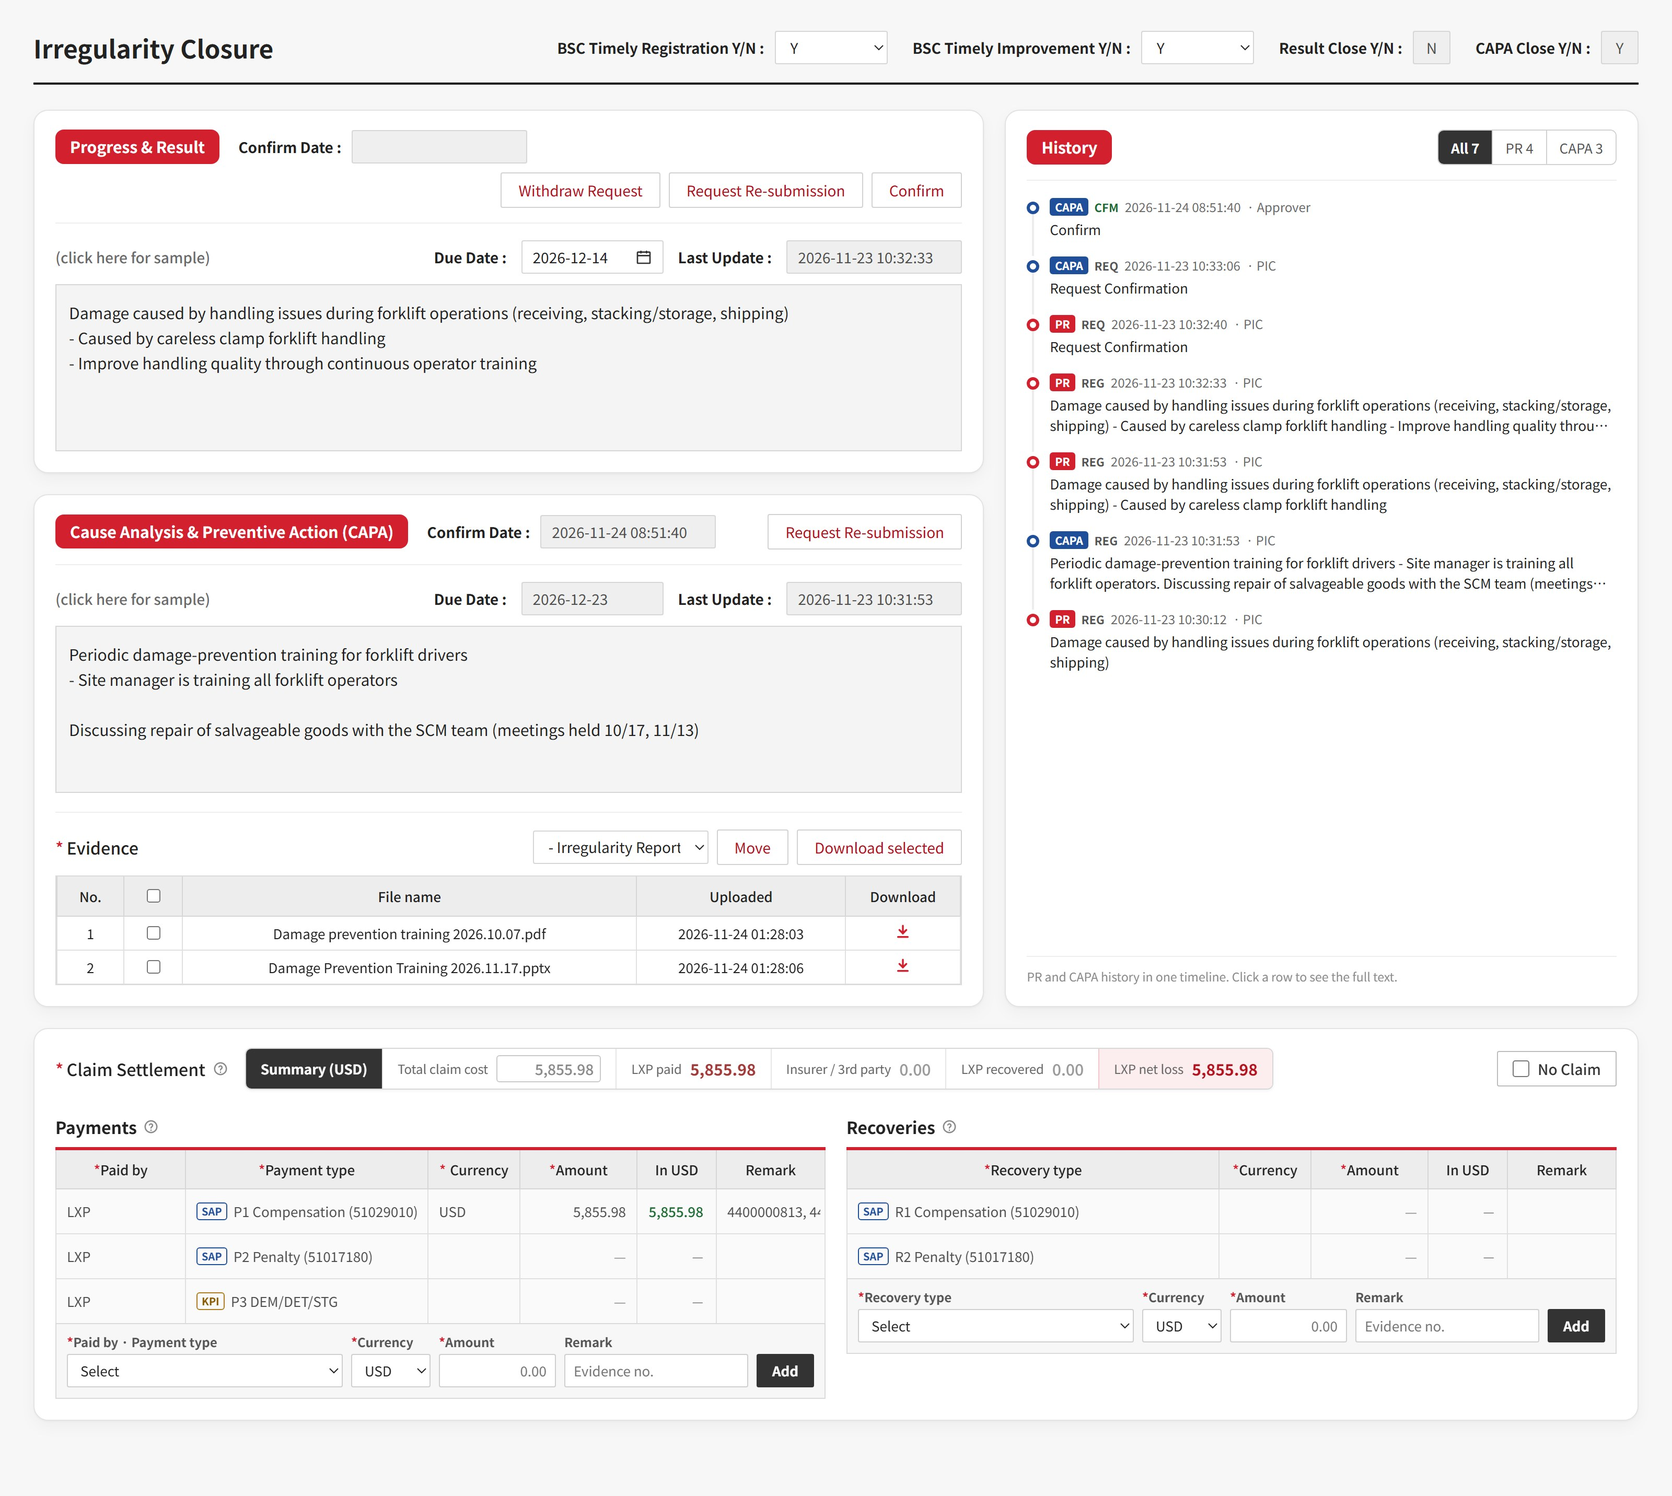
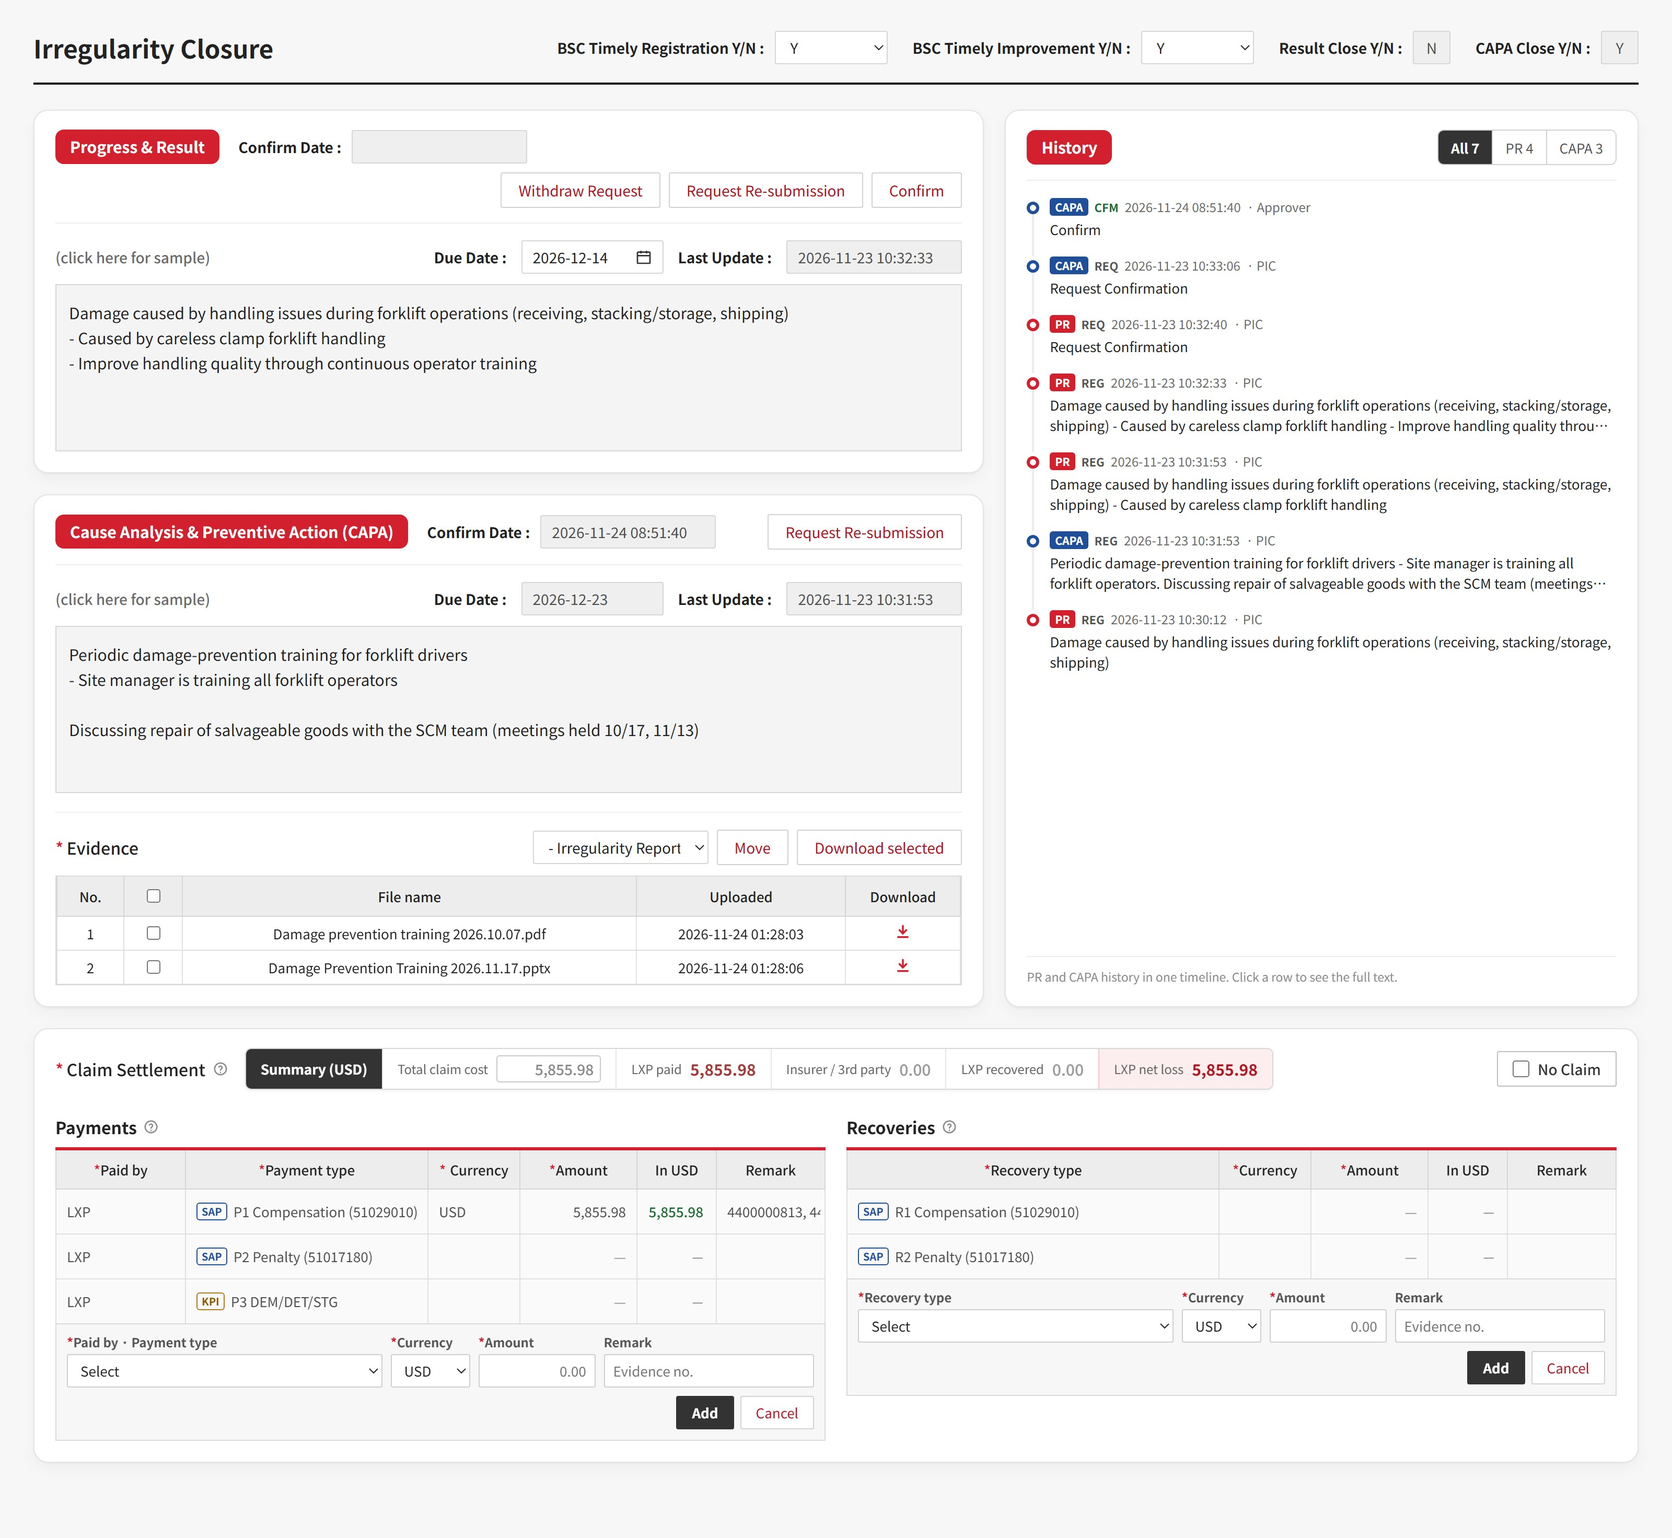
QMS sidebar mockup: CS buttons on their own row, Cancel always shown

diff --git a/share/qms-claim-closure-sidebar.html b/share/qms-claim-closure-sidebar.html
@@ -127,8 +127,9 @@ a{color:#B3121F}a:hover{color:#7E0C16}
 .csw .grid .rocell{border:0;background:none;height:28px;padding:0 6px}
 .cform{margin-top:-1px;background:#F7F7F7;border:1px solid #DADADA;padding:8px 10px 10px}
 .cf-g{display:grid;gap:6px 8px;align-items:end}
-.cf-g.pay{grid-template-columns:minmax(0,1.5fr) 76px 112px minmax(0,1fr) auto}
-.cf-g.rec{grid-template-columns:minmax(0,1.5fr) 76px 112px minmax(0,1fr) auto}
+.cf-g.pay{grid-template-columns:minmax(0,1.5fr) 76px 112px minmax(0,1fr)}
+.cf-g.rec{grid-template-columns:minmax(0,1.5fr) 76px 112px minmax(0,1fr)}
+.cf-foot{display:flex;flex-wrap:wrap;align-items:center;gap:6px 10px;margin-top:8px}.cf-foot .cf-b{margin-left:auto}
 .csw table[data-k="pay"] col:nth-child(4),.csw table[data-k="rec"] col:nth-child(3){width:112px !important}
 .cform.editing{background:#FDF1F2;border-color:#EBB5BB}
 .grid tr.ur.flash td{animation:urflash 1.4s ease-out}@keyframes urflash{from{background:#FFF0B3}to{background:#fff}}
@@ -141,20 +142,20 @@ a{color:#B3121F}a:hover{color:#7E0C16}
 .cf-b .btn{height:32px;padding:0 14px;font-size:13px}
 .cf-b .btn[hidden]{display:none}
 .btn.dark{background:#333;border-color:#333;color:#fff;font-weight:700}
-.cf-err{margin:6px 0 0;font-size:12px;color:#B3121F}
+.cf-err{margin:0;font-size:12px;color:#B3121F}
 .uc{height:28px;display:flex;align-items:center;padding:0 6px;font-size:13px;overflow:hidden;white-space:nowrap;text-overflow:ellipsis}
 .uc.num{justify-content:flex-end;font-variant-numeric:tabular-nums}
 .grid tr.ur{cursor:pointer;user-select:none}.grid tr.ur:hover td{background:#FFF7F7}
 .grid tr.ur.sel td{background:#FDECEE}.grid tr.ur.sel td:first-child{box-shadow:inset 3px 0 0 #D3202F}
 .grid tr.ur:focus-visible{outline:2px solid #1F4E9A;outline-offset:-2px}
-@media (max-width:640px){.cf-g.pay,.cf-g.rec{grid-template-columns:minmax(0,1fr) minmax(0,1fr)}.cf-b{grid-column:1 / -1;justify-content:flex-end}}
+@media (max-width:640px){.cf-g.pay,.cf-g.rec{grid-template-columns:minmax(0,1fr) minmax(0,1fr)}}
 @media (max-width:1100px){.sbl,.flow.r64 .sbl{grid-template-columns:minmax(0,1fr)}.tl{flex:none;height:auto;min-height:0;max-height:420px}}
 
 </style>
 </head>
 <body>
 <div class="lab-bar"><b>QMS 사고 비용 정산 설계안</b><span>배치 검토용 목업 · 이력 필터만 동작</span><a href="/share/qms-claim">데이터 설계</a><a href="/share/qms-claim-screens">입력 화면 시안</a><a href="/share/qms-claim-closure">Closure 화면 개선안</a><a href="/share/qms-claim-closure-layout">좌우 배치안</a><a href="/share/qms-claim-closure-sidebar" aria-current="page">이력 사이드바안</a><a href="/share/qms-claim-closure-options">배치 제안</a><a href="#en" lang="en">English</a></div>
-<div class="part"><h2 class="big">이력 사이드바안 — 배치 제안 C</h2><p><b>사이드바 레이아웃</b>: 왼쪽 본문은 PR → CAPA → 이행 증빙, 오른쪽 사이드바는 PR · CAPA 이력을 시간순으로 모은 통합 이력 (PR / CAPA 필터). 구역마다 둥근 상자로 나누고, 본문 : 이력 폭은 7 : 3 (6 : 4로 바꿔 볼 수 있음). 이력 상자는 본문 높이에 맞춰 늘어나고 넘치면 안에서 스크롤. 입력 칸과 이력이 나란히 있지 않으니 높이를 맞출 필요가 없고, 이행 증빙이 늘어도 구조가 깨지지 않습니다. <b>Claim Settlement는 전체 폭</b>으로 빼서 지불·회수 표를 한 줄에 놓고, 맨 아래(기본)와 맨 위 중 골라 볼 수 있습니다. <b>지불·회수 표는 조회 전용</b>(USD 환산은 표에서 자동 계산)이고, 표 바로 아래 한 줄 입력칸에 입력하고 줄 끝의 추가(또는 Enter)로 넣습니다. 입력한 행을 더블클릭하면 입력칸에 불러오고, 입력칸이 분홍으로 바뀌며 버튼이 수정·삭제·취소로 바뀝니다 (취소 또는 Esc → 신규). 취소는 지울 내용이 있을 때만 나옵니다. 아래 비고는 없애고 규칙은 ? 툴팁과 입력칸 안내로 옮겼습니다. 지불방법은 지불주체로 정해지므로(당사 P4, 그 밖 P5) 따로 고르지 않고 목록에 함께 보여 줍니다. 요약 금액은 예시 환율로 다시 계산됩니다.</p>
+<div class="part"><h2 class="big">이력 사이드바안 — 배치 제안 C</h2><p><b>사이드바 레이아웃</b>: 왼쪽 본문은 PR → CAPA → 이행 증빙, 오른쪽 사이드바는 PR · CAPA 이력을 시간순으로 모은 통합 이력 (PR / CAPA 필터). 구역마다 둥근 상자로 나누고, 본문 : 이력 폭은 7 : 3 (6 : 4로 바꿔 볼 수 있음). 이력 상자는 본문 높이에 맞춰 늘어나고 넘치면 안에서 스크롤. 입력 칸과 이력이 나란히 있지 않으니 높이를 맞출 필요가 없고, 이행 증빙이 늘어도 구조가 깨지지 않습니다. <b>Claim Settlement는 전체 폭</b>으로 빼서 지불·회수 표를 한 줄에 놓고, 맨 아래(기본)와 맨 위 중 골라 볼 수 있습니다. <b>지불·회수 표는 조회 전용</b>(USD 환산은 표에서 자동 계산)이고, 표 바로 아래 한 줄 입력칸에 입력하고, 그 아래 오른쪽 버튼(추가·취소, Enter = 추가)으로 넣습니다. 입력한 행을 더블클릭하면 입력칸에 불러오고, 입력칸이 분홍으로 바뀌며 버튼이 수정·삭제·취소로 바뀝니다 (취소 또는 Esc → 신규). 버튼이 바뀌어도 입력칸 위치는 그대로입니다. 아래 비고는 없애고 규칙은 ? 툴팁과 입력칸 안내로 옮겼습니다. 지불방법은 지불주체로 정해지므로(당사 P4, 그 밖 P5) 따로 고르지 않고 목록에 함께 보여 줍니다. 요약 금액은 예시 환율로 다시 계산됩니다.</p>
 <div class="pos" role="group" aria-label="본문과 이력 비율" data-cls="r64"><span>본문 : 이력</span><span class="segb"><button type="button" data-on="0" aria-pressed="true">7 : 3</button><button type="button" data-on="1" aria-pressed="false">6 : 4</button></span></div><div class="pos" role="group" aria-label="Claim Settlement 위치" data-cls="cs-top"><span>Claim Settlement 위치</span><span class="segb"><button type="button" data-pos="bottom" data-on="0" aria-pressed="true">맨 아래</button><button type="button" data-pos="top" data-on="1" aria-pressed="false">맨 위</button></span></div>
 <div class="dl"><a href="/share/files/qms-claim-closure-sidebar.jpg" download><svg width="14" height="14" viewBox="0 0 24 24" fill="none" stroke="currentColor" stroke-width="2" aria-hidden="true"><path d="M12 3v12m0 0-5-5m5 5 5-5M4 19h16"/></svg>JPG (맨 아래)</a><a href="/share/files/qms-claim-closure-sidebar-top.jpg" download><svg width="14" height="14" viewBox="0 0 24 24" fill="none" stroke="currentColor" stroke-width="2" aria-hidden="true"><path d="M12 3v12m0 0-5-5m5 5 5-5M4 19h16"/></svg>JPG (맨 위)</a><a href="/share/files/qms-claim-closure-sidebar-64.jpg" download><svg width="14" height="14" viewBox="0 0 24 24" fill="none" stroke="currentColor" stroke-width="2" aria-hidden="true"><path d="M12 3v12m0 0-5-5m5 5 5-5M4 19h16"/></svg>JPG (6 : 4)</a></div></div>
 <div style="box-sizing: border-box; width: 100%; max-width: 1600px; margin: 0 auto; padding: 28px 32px 56px; font-family: 'Noto Sans KR', 'Malgun Gothic', sans-serif; color: #222; background: #F7F7F7;">
@@ -300,7 +301,7 @@ SCM팀 통한 수리 가능 제품 양품화 협의 (10/17, 11/13 협의 진행)
 </tbody>
 </table>
 </div>
-<div class="cform" data-k="pay" role="group" aria-label="지불 입력"><div class="cf-g pay"><label class="cf"><span><span class="req">*</span>지불주체 · 지불방법</span><select data-f="party"><option value="">선택</option><option value="LXP">당사 — P4 Selling / Buying</option><option value="INS">당사 보험사 — P5 보험사·제3자 지불</option><option value="VEN">협력사 — P5 보험사·제3자 지불</option><option value="CUS">고객사 — P5 보험사·제3자 지불</option></select></label><label class="cf"><span><span class="req">*</span>Currency</span><select data-f="cur"><option>USD</option><option>KRW</option><option>EUR</option></select></label><label class="cf"><span><span class="req">*</span>금액</span><input data-f="amt" inputmode="decimal" placeholder="0.00"></label><label class="cf"><span>Remark</span><input data-f="remark" placeholder="증빙번호 등"></label><div class="cf-b" data-k="pay" role="group" aria-label="지불 입력"><button class="btn dark cf-add" type="button">추가</button><button class="btn dark cf-upd" type="button" hidden>수정</button><button class="btn cf-del" type="button" hidden>삭제</button><button class="btn cf-cancel" type="button">취소</button></div></div><p class="cf-err" role="alert" hidden></p></div>
+<div class="cform" data-k="pay" role="group" aria-label="지불 입력"><div class="cf-g pay"><label class="cf"><span><span class="req">*</span>지불주체 · 지불방법</span><select data-f="party"><option value="">선택</option><option value="LXP">당사 — P4 Selling / Buying</option><option value="INS">당사 보험사 — P5 보험사·제3자 지불</option><option value="VEN">협력사 — P5 보험사·제3자 지불</option><option value="CUS">고객사 — P5 보험사·제3자 지불</option></select></label><label class="cf"><span><span class="req">*</span>Currency</span><select data-f="cur"><option>USD</option><option>KRW</option><option>EUR</option></select></label><label class="cf"><span><span class="req">*</span>금액</span><input data-f="amt" inputmode="decimal" placeholder="0.00"></label><label class="cf"><span>Remark</span><input data-f="remark" placeholder="증빙번호 등"></label></div><div class="cf-foot"><p class="cf-err" role="alert" hidden></p><div class="cf-b" data-k="pay" role="group" aria-label="지불 입력"><button class="btn dark cf-add" type="button">추가</button><button class="btn dark cf-upd" type="button" hidden>수정</button><button class="btn cf-del" type="button" hidden>삭제</button><button class="btn cf-cancel" type="button">취소</button></div></div></div>
 </div>
 
 <div style="min-width: 0;">
@@ -340,7 +341,7 @@ SCM팀 통한 수리 가능 제품 양품화 협의 (10/17, 11/13 협의 진행)
 </tbody>
 </table>
 </div>
-<div class="cform" data-k="rec" role="group" aria-label="회수 입력"><div class="cf-g rec"><label class="cf"><span><span class="req">*</span>회수방법</span><select data-f="type"><option value="">선택</option><option value="R4">R4 Selling / Buying</option><option value="R5">R5 기타</option></select></label><label class="cf"><span><span class="req">*</span>Currency</span><select data-f="cur"><option>USD</option><option>KRW</option><option>EUR</option></select></label><label class="cf"><span><span class="req">*</span>금액</span><input data-f="amt" inputmode="decimal" placeholder="0.00"></label><label class="cf"><span>Remark</span><input data-f="remark" placeholder="증빙번호 등"></label><div class="cf-b" data-k="rec" role="group" aria-label="회수 입력"><button class="btn dark cf-add" type="button">추가</button><button class="btn dark cf-upd" type="button" hidden>수정</button><button class="btn cf-del" type="button" hidden>삭제</button><button class="btn cf-cancel" type="button">취소</button></div></div><p class="cf-err" role="alert" hidden></p></div>
+<div class="cform" data-k="rec" role="group" aria-label="회수 입력"><div class="cf-g rec"><label class="cf"><span><span class="req">*</span>회수방법</span><select data-f="type"><option value="">선택</option><option value="R4">R4 Selling / Buying</option><option value="R5">R5 기타</option></select></label><label class="cf"><span><span class="req">*</span>Currency</span><select data-f="cur"><option>USD</option><option>KRW</option><option>EUR</option></select></label><label class="cf"><span><span class="req">*</span>금액</span><input data-f="amt" inputmode="decimal" placeholder="0.00"></label><label class="cf"><span>Remark</span><input data-f="remark" placeholder="증빙번호 등"></label></div><div class="cf-foot"><p class="cf-err" role="alert" hidden></p><div class="cf-b" data-k="rec" role="group" aria-label="회수 입력"><button class="btn dark cf-add" type="button">추가</button><button class="btn dark cf-upd" type="button" hidden>수정</button><button class="btn cf-del" type="button" hidden>삭제</button><button class="btn cf-cancel" type="button">취소</button></div></div></div>
 </div>
 
 </div>
@@ -491,7 +492,7 @@ Summary (USD)</div>
 </tbody>
 </table>
 </div>
-<div class="cform" data-k="pay" role="group" aria-label="Payment entry"><div class="cf-g pay"><label class="cf"><span><span class="req">*</span>Paid by · Payment type</span><select data-f="party"><option value="">Select</option><option value="LXP">LXP — P4 Selling / Buying</option><option value="INS">LXP insurer — P5 Paid by insurer / 3rd party</option><option value="VEN">Vendor — P5 Paid by insurer / 3rd party</option><option value="CUS">Customer — P5 Paid by insurer / 3rd party</option></select></label><label class="cf"><span><span class="req">*</span>Currency</span><select data-f="cur"><option>USD</option><option>KRW</option><option>EUR</option></select></label><label class="cf"><span><span class="req">*</span>Amount</span><input data-f="amt" inputmode="decimal" placeholder="0.00"></label><label class="cf"><span>Remark</span><input data-f="remark" placeholder="Evidence no."></label><div class="cf-b" data-k="pay" role="group" aria-label="Payment entry"><button class="btn dark cf-add" type="button">Add</button><button class="btn dark cf-upd" type="button" hidden>Update</button><button class="btn cf-del" type="button" hidden>Delete</button><button class="btn cf-cancel" type="button">Cancel</button></div></div><p class="cf-err" role="alert" hidden></p></div>
+<div class="cform" data-k="pay" role="group" aria-label="Payment entry"><div class="cf-g pay"><label class="cf"><span><span class="req">*</span>Paid by · Payment type</span><select data-f="party"><option value="">Select</option><option value="LXP">LXP — P4 Selling / Buying</option><option value="INS">LXP insurer — P5 Paid by insurer / 3rd party</option><option value="VEN">Vendor — P5 Paid by insurer / 3rd party</option><option value="CUS">Customer — P5 Paid by insurer / 3rd party</option></select></label><label class="cf"><span><span class="req">*</span>Currency</span><select data-f="cur"><option>USD</option><option>KRW</option><option>EUR</option></select></label><label class="cf"><span><span class="req">*</span>Amount</span><input data-f="amt" inputmode="decimal" placeholder="0.00"></label><label class="cf"><span>Remark</span><input data-f="remark" placeholder="Evidence no."></label></div><div class="cf-foot"><p class="cf-err" role="alert" hidden></p><div class="cf-b" data-k="pay" role="group" aria-label="Payment entry"><button class="btn dark cf-add" type="button">Add</button><button class="btn dark cf-upd" type="button" hidden>Update</button><button class="btn cf-del" type="button" hidden>Delete</button><button class="btn cf-cancel" type="button">Cancel</button></div></div></div>
 </div>
 
 <div style="min-width: 0;">
@@ -531,7 +532,7 @@ Summary (USD)</div>
 </tbody>
 </table>
 </div>
-<div class="cform" data-k="rec" role="group" aria-label="Recovery entry"><div class="cf-g rec"><label class="cf"><span><span class="req">*</span>Recovery type</span><select data-f="type"><option value="">Select</option><option value="R4">R4 Selling / Buying</option><option value="R5">R5 Other</option></select></label><label class="cf"><span><span class="req">*</span>Currency</span><select data-f="cur"><option>USD</option><option>KRW</option><option>EUR</option></select></label><label class="cf"><span><span class="req">*</span>Amount</span><input data-f="amt" inputmode="decimal" placeholder="0.00"></label><label class="cf"><span>Remark</span><input data-f="remark" placeholder="Evidence no."></label><div class="cf-b" data-k="rec" role="group" aria-label="Recovery entry"><button class="btn dark cf-add" type="button">Add</button><button class="btn dark cf-upd" type="button" hidden>Update</button><button class="btn cf-del" type="button" hidden>Delete</button><button class="btn cf-cancel" type="button">Cancel</button></div></div><p class="cf-err" role="alert" hidden></p></div>
+<div class="cform" data-k="rec" role="group" aria-label="Recovery entry"><div class="cf-g rec"><label class="cf"><span><span class="req">*</span>Recovery type</span><select data-f="type"><option value="">Select</option><option value="R4">R4 Selling / Buying</option><option value="R5">R5 Other</option></select></label><label class="cf"><span><span class="req">*</span>Currency</span><select data-f="cur"><option>USD</option><option>KRW</option><option>EUR</option></select></label><label class="cf"><span><span class="req">*</span>Amount</span><input data-f="amt" inputmode="decimal" placeholder="0.00"></label><label class="cf"><span>Remark</span><input data-f="remark" placeholder="Evidence no."></label></div><div class="cf-foot"><p class="cf-err" role="alert" hidden></p><div class="cf-b" data-k="rec" role="group" aria-label="Recovery entry"><button class="btn dark cf-add" type="button">Add</button><button class="btn dark cf-upd" type="button" hidden>Update</button><button class="btn cf-del" type="button" hidden>Delete</button><button class="btn cf-cancel" type="button">Cancel</button></div></div></div>
 </div>
 
 </div>
@@ -587,8 +588,7 @@ Summary (USD)</div>
       function typeVal() { return party ? (party.value ? (party.value === 'LXP' ? 'P4' : 'P5') : '') : type.value; }
       function needV() { var t = typeVal(); return t === 'P4' || t === 'R4'; }
       function sync() { remark.placeholder = needV() ? L.vph : L.ph; remark.classList.toggle('need', needV()); }
-      function dirty() { return !!((party || type).value || cur.value !== 'USD' || amt.value || remark.value); }
-      function state() { add.hidden = !!sel; upd.hidden = del.hidden = !sel; cancel.hidden = !sel && !dirty(); f.classList.toggle('editing', !!sel); }
+      function state() { add.hidden = !!sel; upd.hidden = del.hidden = !sel; f.classList.toggle('editing', !!sel); }
       function flash(tr) { tr.classList.remove('flash'); void tr.offsetWidth; tr.classList.add('flash'); }
       function clear() { f.querySelectorAll('.bad').forEach(function (e) { e.classList.remove('bad'); }); err.hidden = true; }
       function blank() { (party || type).value = ''; cur.value = 'USD'; amt.value = ''; remark.value = ''; clear(); sync(); state(); }
